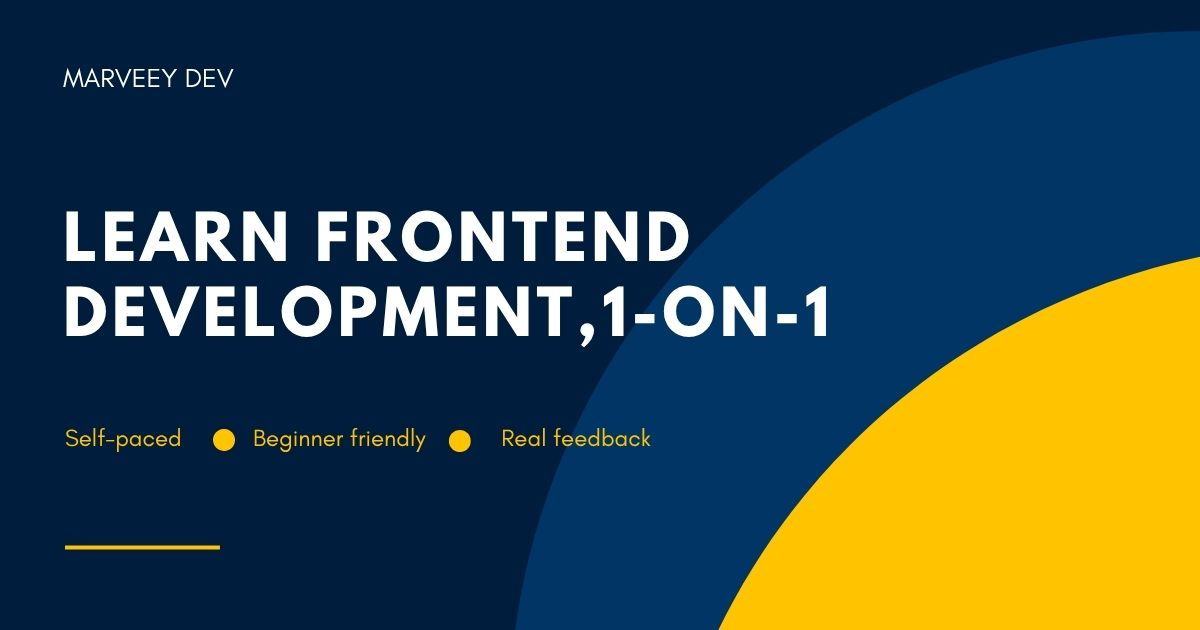
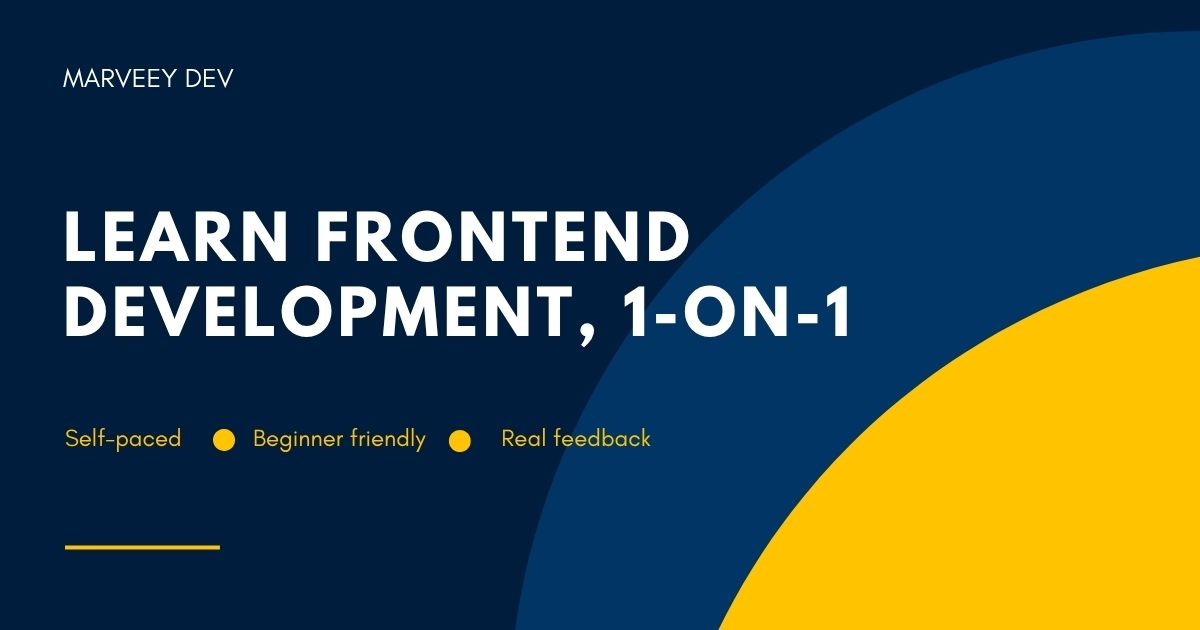
fixed og image

Changed region(s): [[0.4933, 0.4524, 0.7092, 0.5429]]

diff --git a/index.html b/index.html
@@ -12,16 +12,16 @@
 <!-- css -->
   <link rel="stylesheet" href="style.css">
 <title>Learn Frontend Development 1-on-1 | Marveey Dev</title>
-<meta name="description" content="A self-paced frontend development training with 1-on-1 support. Built for beginners and anyone stuck in tutorial hell — learn to build real websites with real feedback.">
-<link rel="canonical" href="https://yourdomain.com/">
+<meta name="description" content="A self-paced frontend development training with 1-on-1 support. Built for beginners and anyone stuck in tutorial hell">
+<link rel="canonical" href="https://marveeygoodlife.github.io/marvellous">
 
 <!-- Open Graph -->
 <meta property="og:type" content="website">
 <meta property="og:site_name" content="marveey dev">
 <meta property="og:title" content="Learn Frontend Development 1-on-1 | Marveey dev">
-<meta property="og:description" content="A self-paced frontend development course with 1-on-1 support. Built for beginners and anyone stuck in tutorial hell — learn to build real websites with real feedback.">
-<meta property="og:url" content="https://marveeygoodlife.github.io/marvellous/">
-<meta property="og:image" content="https://marveeygoodlife.github.io/marvellous/MARVEEY-DEV.jpg/">
+<meta property="og:description" content="A self-paced web development course with 1-on-1 support. Built for beginners and anyone stuck in tutorial hell.">
+<meta property="og:url" content="https://marveeygoodlife.github.io/marvellous">
+<meta property="og:image" content="https://marveeygoodlife.github.io/marvellous/MARVEEY-DEV.jpg">
 <meta property="og:image:width" content="1200">
 <meta property="og:image:height" content="630">
 <meta property="og:locale" content="en_NG">
